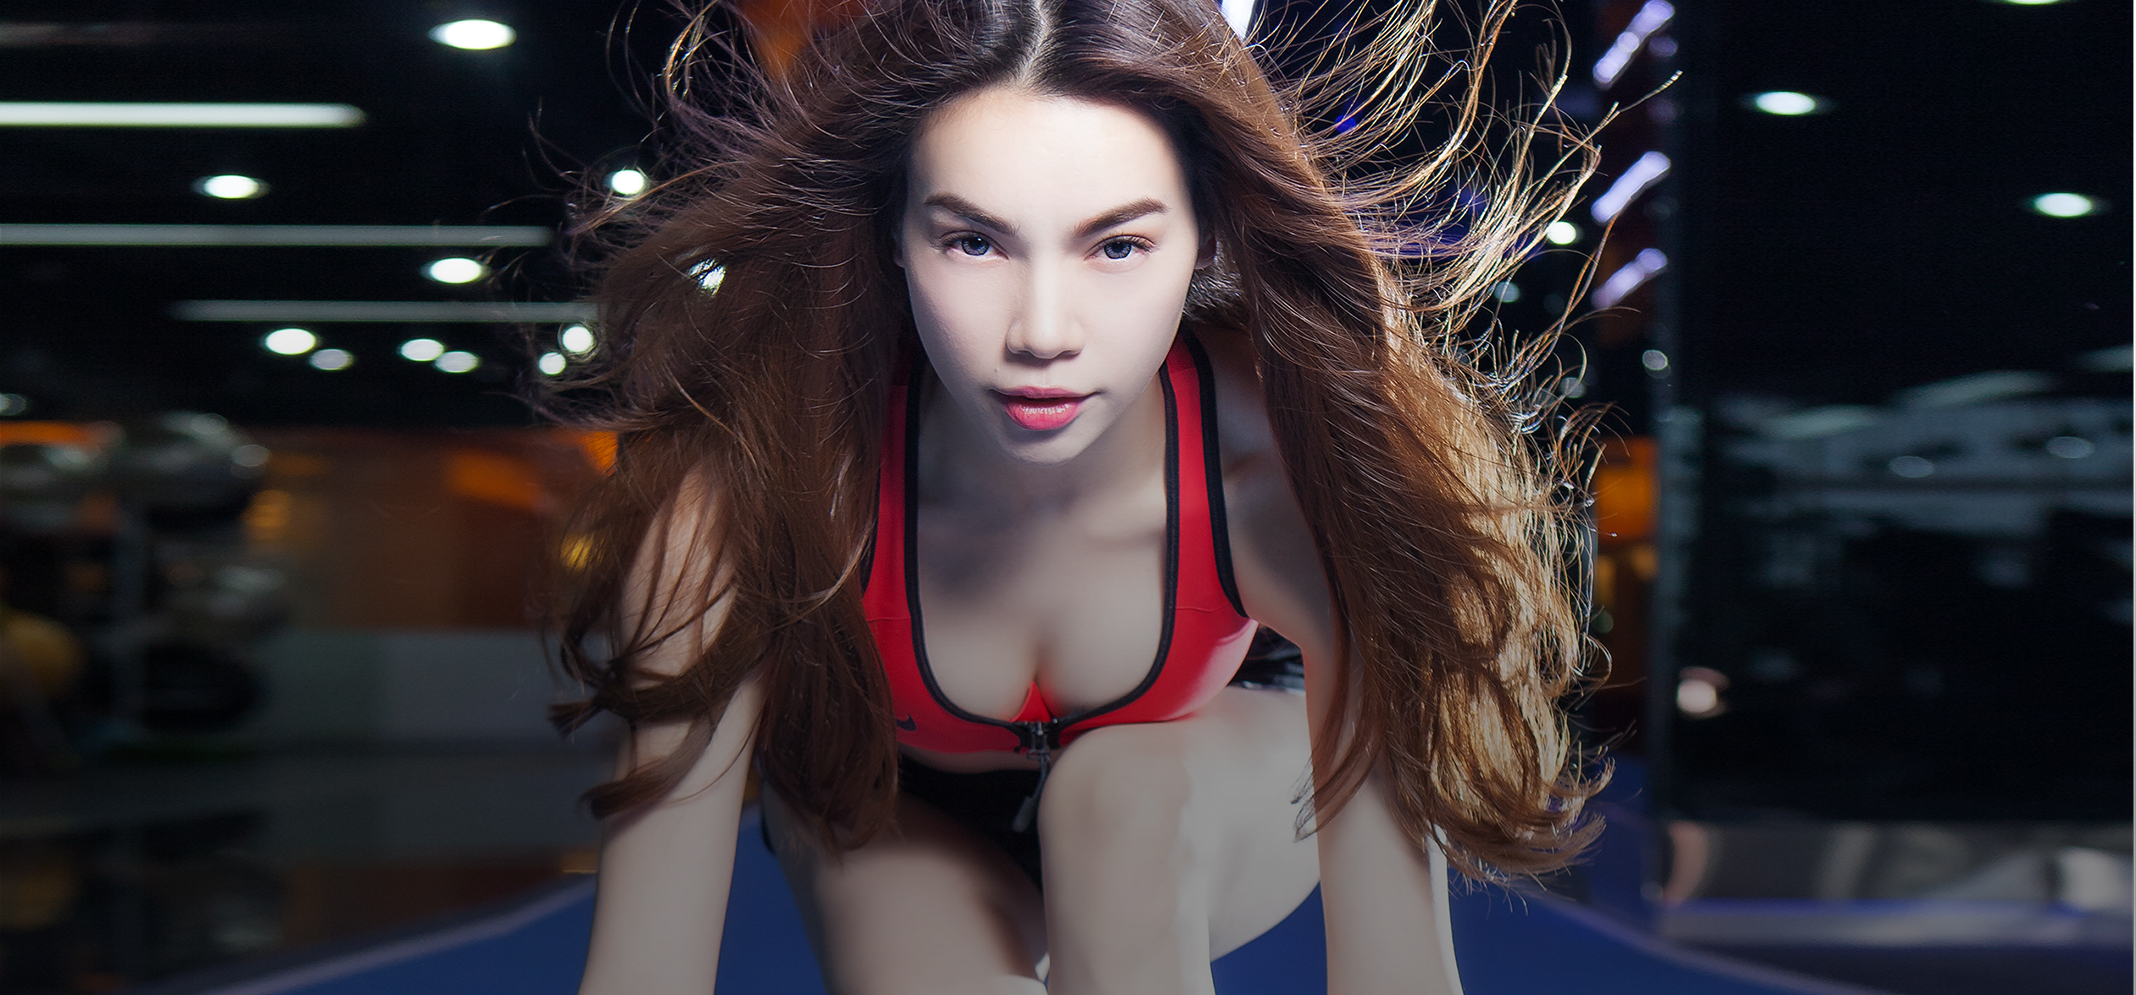
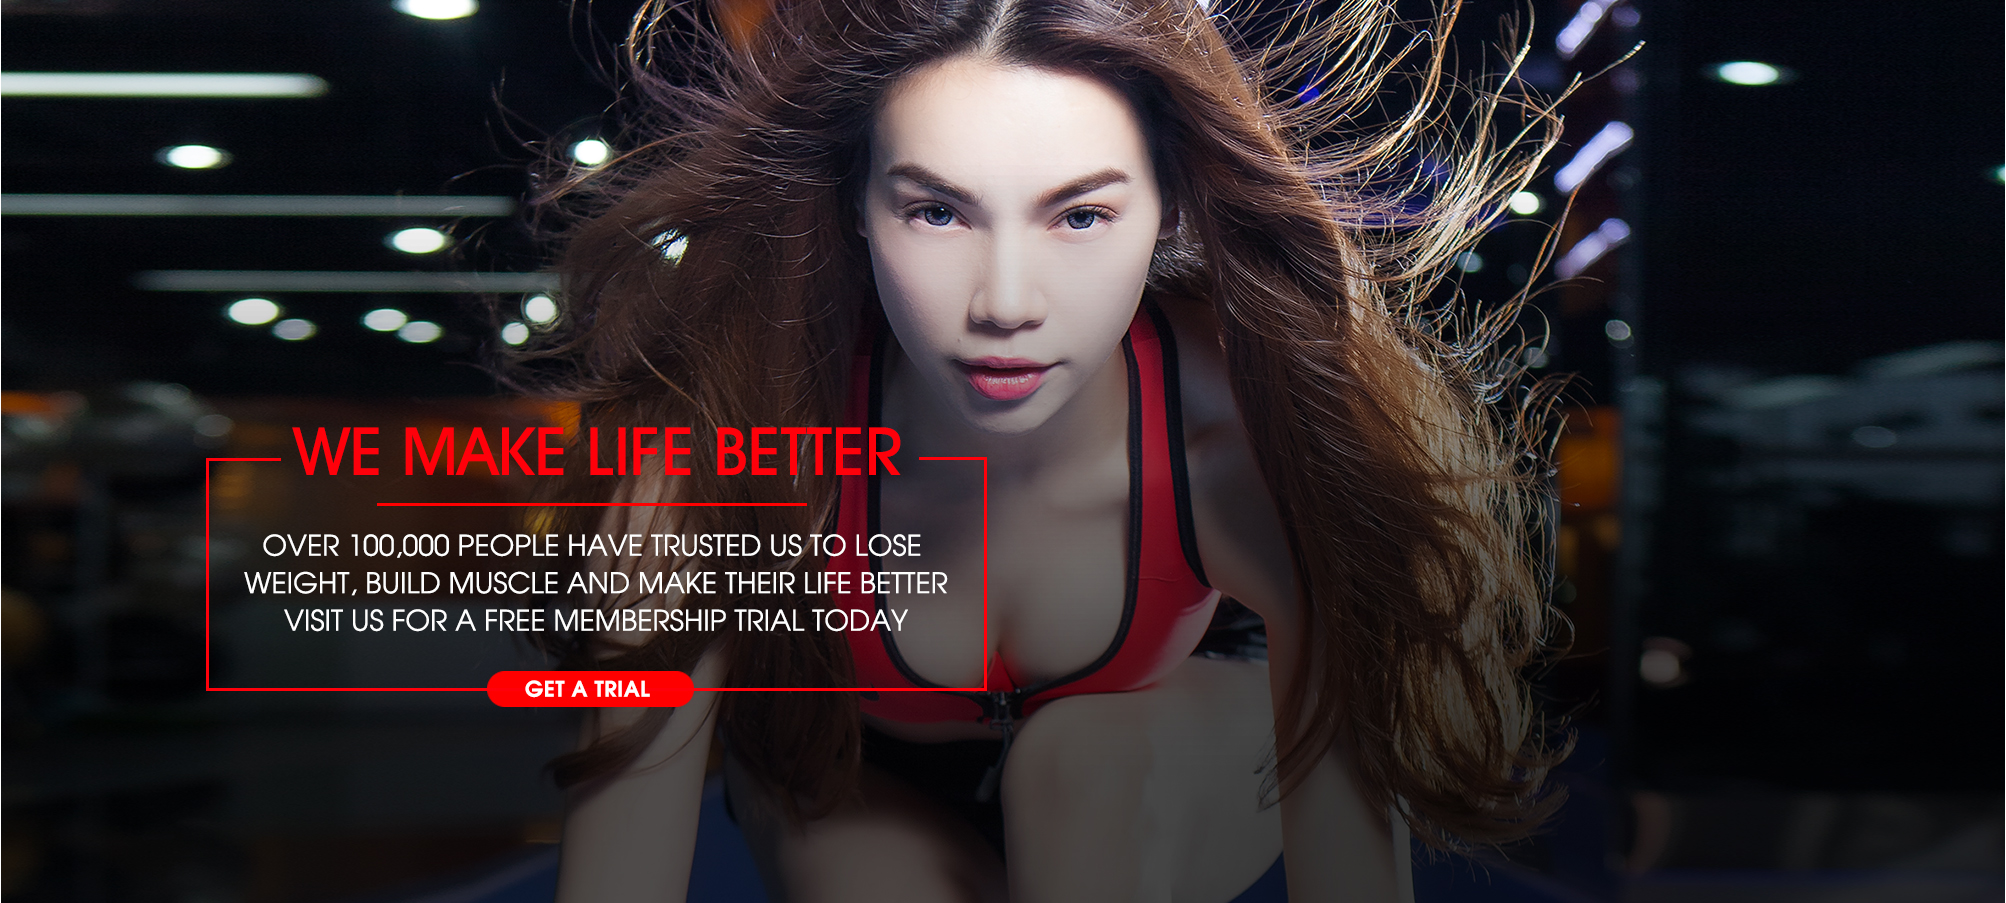
update member-testimonials page

diff --git a/users/SongPham/cfyc/app/stylesheets/files/member-testimonials.scss b/users/SongPham/cfyc/app/stylesheets/files/member-testimonials.scss
@@ -1,106 +1,88 @@
 @import '../lib';
 .member-testimonials-page {
+
     img, p, h1, h2, h3, h4, a {@include transition(all .4s ease);}
+    .white-space {padding:10px 0; clear:both;}
 
     // TOP BANNER
     .top-banner {
-        position: relative;
-        text-align: center;
-        letter-spacing: 1em;
-        line-height: 150%;
-        h1.headline {
-            @include font-size(60px);
-            color: $white;
-            font-weight: 300;
-            text-transform: uppercase;
-            position: absolute;
-            left: 15%;
-            bottom: 25%;
-            padding: 3% 4%;
-            border: 1px solid $white;
-            span {
-                font-weight: 100;
-            }
-            @media (max-width: 2000px) {
-                @include font-size(3vw);
-            }
-            @media (max-width: 1000px) {
-                @include font-size(2.5vw);
-                letter-spacing: .5em;
+        a{
+            img {
+                width: 100%;
             }
         }
+        /*        position: relative;
+                text-align: center;
+                letter-spacing: 1em;
+                line-height: 150%;
+                h1.headline {
+                    @include font-size(60px);
+                    color: $white;
+                    font-weight: 300;
+                    text-transform: uppercase;
+                    position: absolute;
+                    left: 15%;
+                    bottom: 25%;
+                    padding: 3% 4%;
+                    border: 1px solid $white;
+                    span {
+                        font-weight: 100;
+                    }
+                    @media (max-width: 2000px) {
+                        @include font-size(3vw);
+                    }
+                    @media (max-width: 1000px) {
+                        @include font-size(2.5vw);
+                        letter-spacing: .5em;
+                    }
+                }*/
     }
 
     // SLIDER 
-    .slider {
-        @media (max-width: 2000px){
-            max-width: 900px;
-        }
-        margin-top: 5%;
-        margin-bottom: 5%;
-        .nav-btn {
-            color: $black;
-            &:hover {color: #524F4F;}
-            .fa {position: absolute; font-size: 4.5vw; padding: 5px; top: 25%; z-index: 1;}
-            .fa-angle-left {left: -1%;}
-            .fa-angle-right {right: -1%;}
+    .carousel {
+        .carousel-control {
+            background :0 0;
+            .glyphicon-chevron-left {
+                background: url(../img/member-testimonials/arrows.png) no-repeat;
+                height: 50px;
+                width: 27px;
+                margin-left: 0;
+                left: 80%;
+                &:before {content: "";}
+            }
+            .glyphicon-chevron-right {
+                background: url(../img/celebrity-members/arrows.png) 0 bottom no-repeat;
+                height: 50px;
+                width: 27px;
+                margin-right: 0;
+                right: 80%;
+                &:before {content: "";}
+            }
         }
         .item {
-            width: 100%;
             .box {
-                width: 20%;
-                float: left;
-                margin: 0 2%;
-                &:first-child {margin: 0 2% 0 4%;}
-                &:last-child {margin: 0 4% 0 2%;}
                 img {
-                    border : 1px solid $black;
+                    border : 1px solid #989898;
                     padding: 10px;
                     width: 100%;
                     @include border-radius(50%);
                 }
                 p {
-                    @include font-size(2vw); 
+                    color: #333;    
                     text-align:center; 
-                    margin-top: 10px; 
+                    margin: 15px 0;
+
                     font-weight:bold;
-                    @media (min-width: 800px) {@include font-size(20px)}
+
                 }
                 &:hover {
-                    img {
-                        border: 1px solid $red; 
-                    }
+                    img { border-color: $red; }
                     p {color: $red;}
                 } 
             }
             .active {
-                img {
-                    border: 1px solid $red; 
-                }
+                img { border-color: $red; }
                 p {color: $red;}
-            }
-        }
-        @media (min-width: 1999px) {
-            .nav-btn {
-                .fa {position: absolute; font-size: 100px; padding: 20px; top: 70px;}
-                .fa-angle-left {left: -100px;}
-                .fa-angle-right {right: -100px;}
-            }
-            .item {
-                width: 100%;
-                .box {
-                    width:22%;
-                    float: left;
-                    margin: 0 2%;
-                    &:first-child {margin: 0 2% 0 0;}
-                    &:last-child {margin: 0 0 0 2%;}
-                    img {
-                        width:100%;
-                        @include border-radius(50%);
-                        border : 1px solid $black;
-                        padding: 10px;
-                    }
-                }
             }
         }
     }
@@ -120,7 +102,6 @@
             }
         }
         .text {
-            padding: 3% 0;
             line-height: 150%;
             h3{
                 margin: 2% 2%;

diff --git a/users/SongPham/cfyc/public/js/scripts/member-testimonials/member-testimonials.js b/users/SongPham/cfyc/public/js/scripts/member-testimonials/member-testimonials.js
@@ -16,12 +16,12 @@ var memberTestimonials = (function() {
         $(document).ready(function() {
 
             // GRAYSCALE ALL IMAGE
-            grayscale($("#carousel-example-generic .item .box a img"));
-            grayscale.reset($("#carousel-example-generic .item .active a img"));
+            grayscale($("#member-list .item .box a img"));
+            grayscale.reset($("#member-list .item .active a img"));
 
 
             // SLIDER
-            $("#carousel-example-generic .item .box a").click(function(e) {
+            $("#member-list .item .box a").click(function(e) {
 
                 e.preventDefault();
 
@@ -42,8 +42,8 @@ var memberTestimonials = (function() {
 
             });
 
-            // GRAY SCALE
-            $("#carousel-example-generic .item .box a img").hover(function() {
+            // RESET GRAYSCALE ON HOVER
+            $("#member-list .item .box a img").hover(function() {
                 grayscale.reset($(this));
             }, function() {
                 if (!$(this).parent().parent().hasClass('active')) {

diff --git a/users/SongPham/cfyc/pages/member-testimonials.php b/users/SongPham/cfyc/pages/member-testimonials.php
@@ -3,66 +3,79 @@
 
     <!-- TOP BANNER -->
     <div class="row top-banner">
-        <img src="<?php echo USER_BASE_URL ?>/img/member-testimonials/banner.jpg" class="img-responsive banner" onmousedown="return false;"/>
-        <h1 class="headline"><span>success</span><br>stories</h1>
+        <a href="#" title="Visit us for a free membership trial today" alt="Visit us for a free membership trial today">
+            <img src="<?php echo USER_BASE_URL ?>/img/member-testimonials/banner.jpg"  title="Visit us for a free membership trial today" alt="Visit us for a free membership trial today">
+        </a>
     </div>
     <!-- END TOP BANNER -->
 
+    <div class="white-space"></div>
+
     <!-- SLIDER -->
-    <div class="container-page slider">
-        <div id="carousel-example-generic" class="carousel slide" data-ride="carousel">
 
-            <!-- Nav btn -->
-            <a class="nav-btn" href="#carousel-example-generic" role="button" data-slide="prev"><i class="fa fa-angle-left"></i></a>
-            <a class="nav-btn" href="#carousel-example-generic" role="button" data-slide="next"><i class="fa fa-angle-right"></i></a>
-
-
-
-            <!-- Wrapper for slides -->
+    <div class="row">
+        <div id="member-list" class="carousel slide" data-ride="carousel">
             <div class="carousel-inner" role="listbox">
                 <div class="item active">
-                    <div class="box active">
-                        <a href='1'><img src="<?php echo USER_BASE_URL . "/img/member-testimonials/story-1.png" ?>" alt=''></a>
-                        <p>Do Hoang Lan</p>
+                    <div class="col-md-2 hide-sm hide-xs text-center">
                     </div>
-                    <div class="box">
+                    <div class="col-md-2 col-sm-3 col-xs-6 text-center box active">
+                        <a href='1'><img src="<?php echo USER_BASE_URL . "/img/member-testimonials/story-1.png" ?>" alt=''></a>
+                        <p>Do Hoang Lan</p> 
+                    </div>
+                    <div class="col-md-2 col-sm-3 col-xs-6 text-center box">
                         <a href='2'><img src="<?php echo USER_BASE_URL . "/img/member-testimonials/story-2.png" ?>" alt=""></a>
                         <p>Hoang Van Si</p>
                     </div>
-                    <div class="box">
+                    <div class="col-md-2 col-sm-3 col-xs-6 text-center box">
                         <a href='3'><img src="<?php echo USER_BASE_URL . "/img/member-testimonials/story-1.png" ?>" alt=''></a>
-                        <p>Do Hoang Lan</p>
+                        <p>Do Hoang Lan</p> 
                     </div>
-                    <div class="box">
+                    <div class="col-md-2 col-sm-3 col-xs-6 text-center box">
                         <a href='4'><img src="<?php echo USER_BASE_URL . "/img/member-testimonials/story-2.png" ?>" alt=""></a>
                         <p>Hoang Van Si</p>
                     </div>
+                    <div class="col-md-2 hide-sm hide-xs text-center">
+                    </div>
                 </div>
                 <div class="item">
-                    <div class="box">
-                        <a href='5'><img src="<?php echo USER_BASE_URL . "/img/member-testimonials/story-1.png" ?>" alt=''></a>
-                        <p>Do Hoang Lan</p>
+                    <div class="col-md-2 hide-sm hide-xs text-center">
                     </div>
-                    <div class="box">
+                    <div class="col-md-2 col-sm-3 col-xs-6 text-center box">
+                        <a href='5'><img src="<?php echo USER_BASE_URL . "/img/member-testimonials/story-1.png" ?>" alt=''></a>
+                        <p>Do Hoang Lan</p> 
+                    </div>
+                    <div class="col-md-2 col-sm-3 col-xs-6 text-center box">
                         <a href='6'><img src="<?php echo USER_BASE_URL . "/img/member-testimonials/story-2.png" ?>" alt=""></a>
                         <p>Hoang Van Si</p>
                     </div>
-                    <div class="box">
+                    <div class="col-md-2 col-sm-3 col-xs-6 text-center box">
                         <a href='7'><img src="<?php echo USER_BASE_URL . "/img/member-testimonials/story-1.png" ?>" alt=''></a>
-                        <p>Do Hoang Lan</p>
+                        <p>Do Hoang Lan</p> 
                     </div>
-                    <div class="box">
+                    <div class="col-md-2 col-sm-3 col-xs-6 text-center box">
                         <a href='8'><img src="<?php echo USER_BASE_URL . "/img/member-testimonials/story-2.png" ?>" alt=""></a>
                         <p>Hoang Van Si</p>
                     </div>
+                    <div class="col-md-2 hide-sm hide-xs text-center">
+                    </div>
                 </div>
             </div>
+            <a class="left carousel-control" href="#member-list" role="button" data-slide="prev">
+                <span class="glyphicon glyphicon-chevron-left" aria-hidden="true"></span>
+            </a>
+            <a class="right carousel-control" href="#member-list" role="button" data-slide="next">
+                <span class="glyphicon glyphicon-chevron-right" aria-hidden="true"></span>
+            </a>
         </div>
-
     </div>
+
     <!-- END SLIDER -->
 
 
+
+
+    <!-- STORY LIST -->
     <div class='story-list'>
 
         <!-- STORY -->
@@ -73,6 +86,8 @@
                 <img src='img/home/success_n.png' onmouseover="this.src = 'img/home/success_h.png';" onmouseout="this.src = 'img/home/success_n.png';" />
             </div>
             <!-- END IMAGE -->
+
+            <div class="white-space"></div>
 
             <!-- TEXT -->
             <div class="container-page text">
@@ -95,6 +110,8 @@
             </div>
             <!-- END IMAGE -->
 
+            <div class="white-space"></div>
+
             <!-- TEXT -->
             <div class="container-page text">
                 <h3>member's story 2</h3>
@@ -115,6 +132,8 @@
                 <img src='img/home/success_n.png' onmouseover="this.src = 'img/home/success_h.png';" onmouseout="this.src = 'img/home/success_n.png';" />
             </div>
             <!-- END IMAGE -->
+
+            <div class="white-space"></div>
 
             <!-- TEXT -->
             <div class="container-page text">
@@ -137,6 +156,8 @@
             </div>
             <!-- END IMAGE -->
 
+            <div class="white-space"></div>
+
             <!-- TEXT -->
             <div class="container-page text">
                 <h3>member's story 4</h3>
@@ -157,6 +178,8 @@
                 <img src='img/home/success_n.png' onmouseover="this.src = 'img/home/success_h.png';" onmouseout="this.src = 'img/home/success_n.png';" />
             </div>
             <!-- END IMAGE -->
+
+            <div class="white-space"></div>
 
             <!-- TEXT -->
             <div class="container-page text">
@@ -179,6 +202,8 @@
             </div>
             <!-- END IMAGE -->
 
+            <div class="white-space"></div>
+
             <!-- TEXT -->
             <div class="container-page text">
                 <h3>member's story 6</h3>
@@ -199,6 +224,8 @@
                 <img src='img/home/success_n.png' onmouseover="this.src = 'img/home/success_h.png';" onmouseout="this.src = 'img/home/success_n.png';" />
             </div>
             <!-- END IMAGE -->
+
+            <div class="white-space"></div>
 
             <!-- TEXT -->
             <div class="container-page text">
@@ -221,6 +248,8 @@
             </div>
             <!-- END IMAGE -->
 
+            <div class="white-space"></div>
+
             <!-- TEXT -->
             <div class="container-page text">
                 <h3>member's story 8</h3>
@@ -233,9 +262,8 @@
         </div>
         <!-- END STORY -->
 
-
-
     </div>
+    <!-- END STORY LIST -->
 
     <?php include USER_BASE_PATH . '/templates/footer-bar.php'; ?>
 </div>
